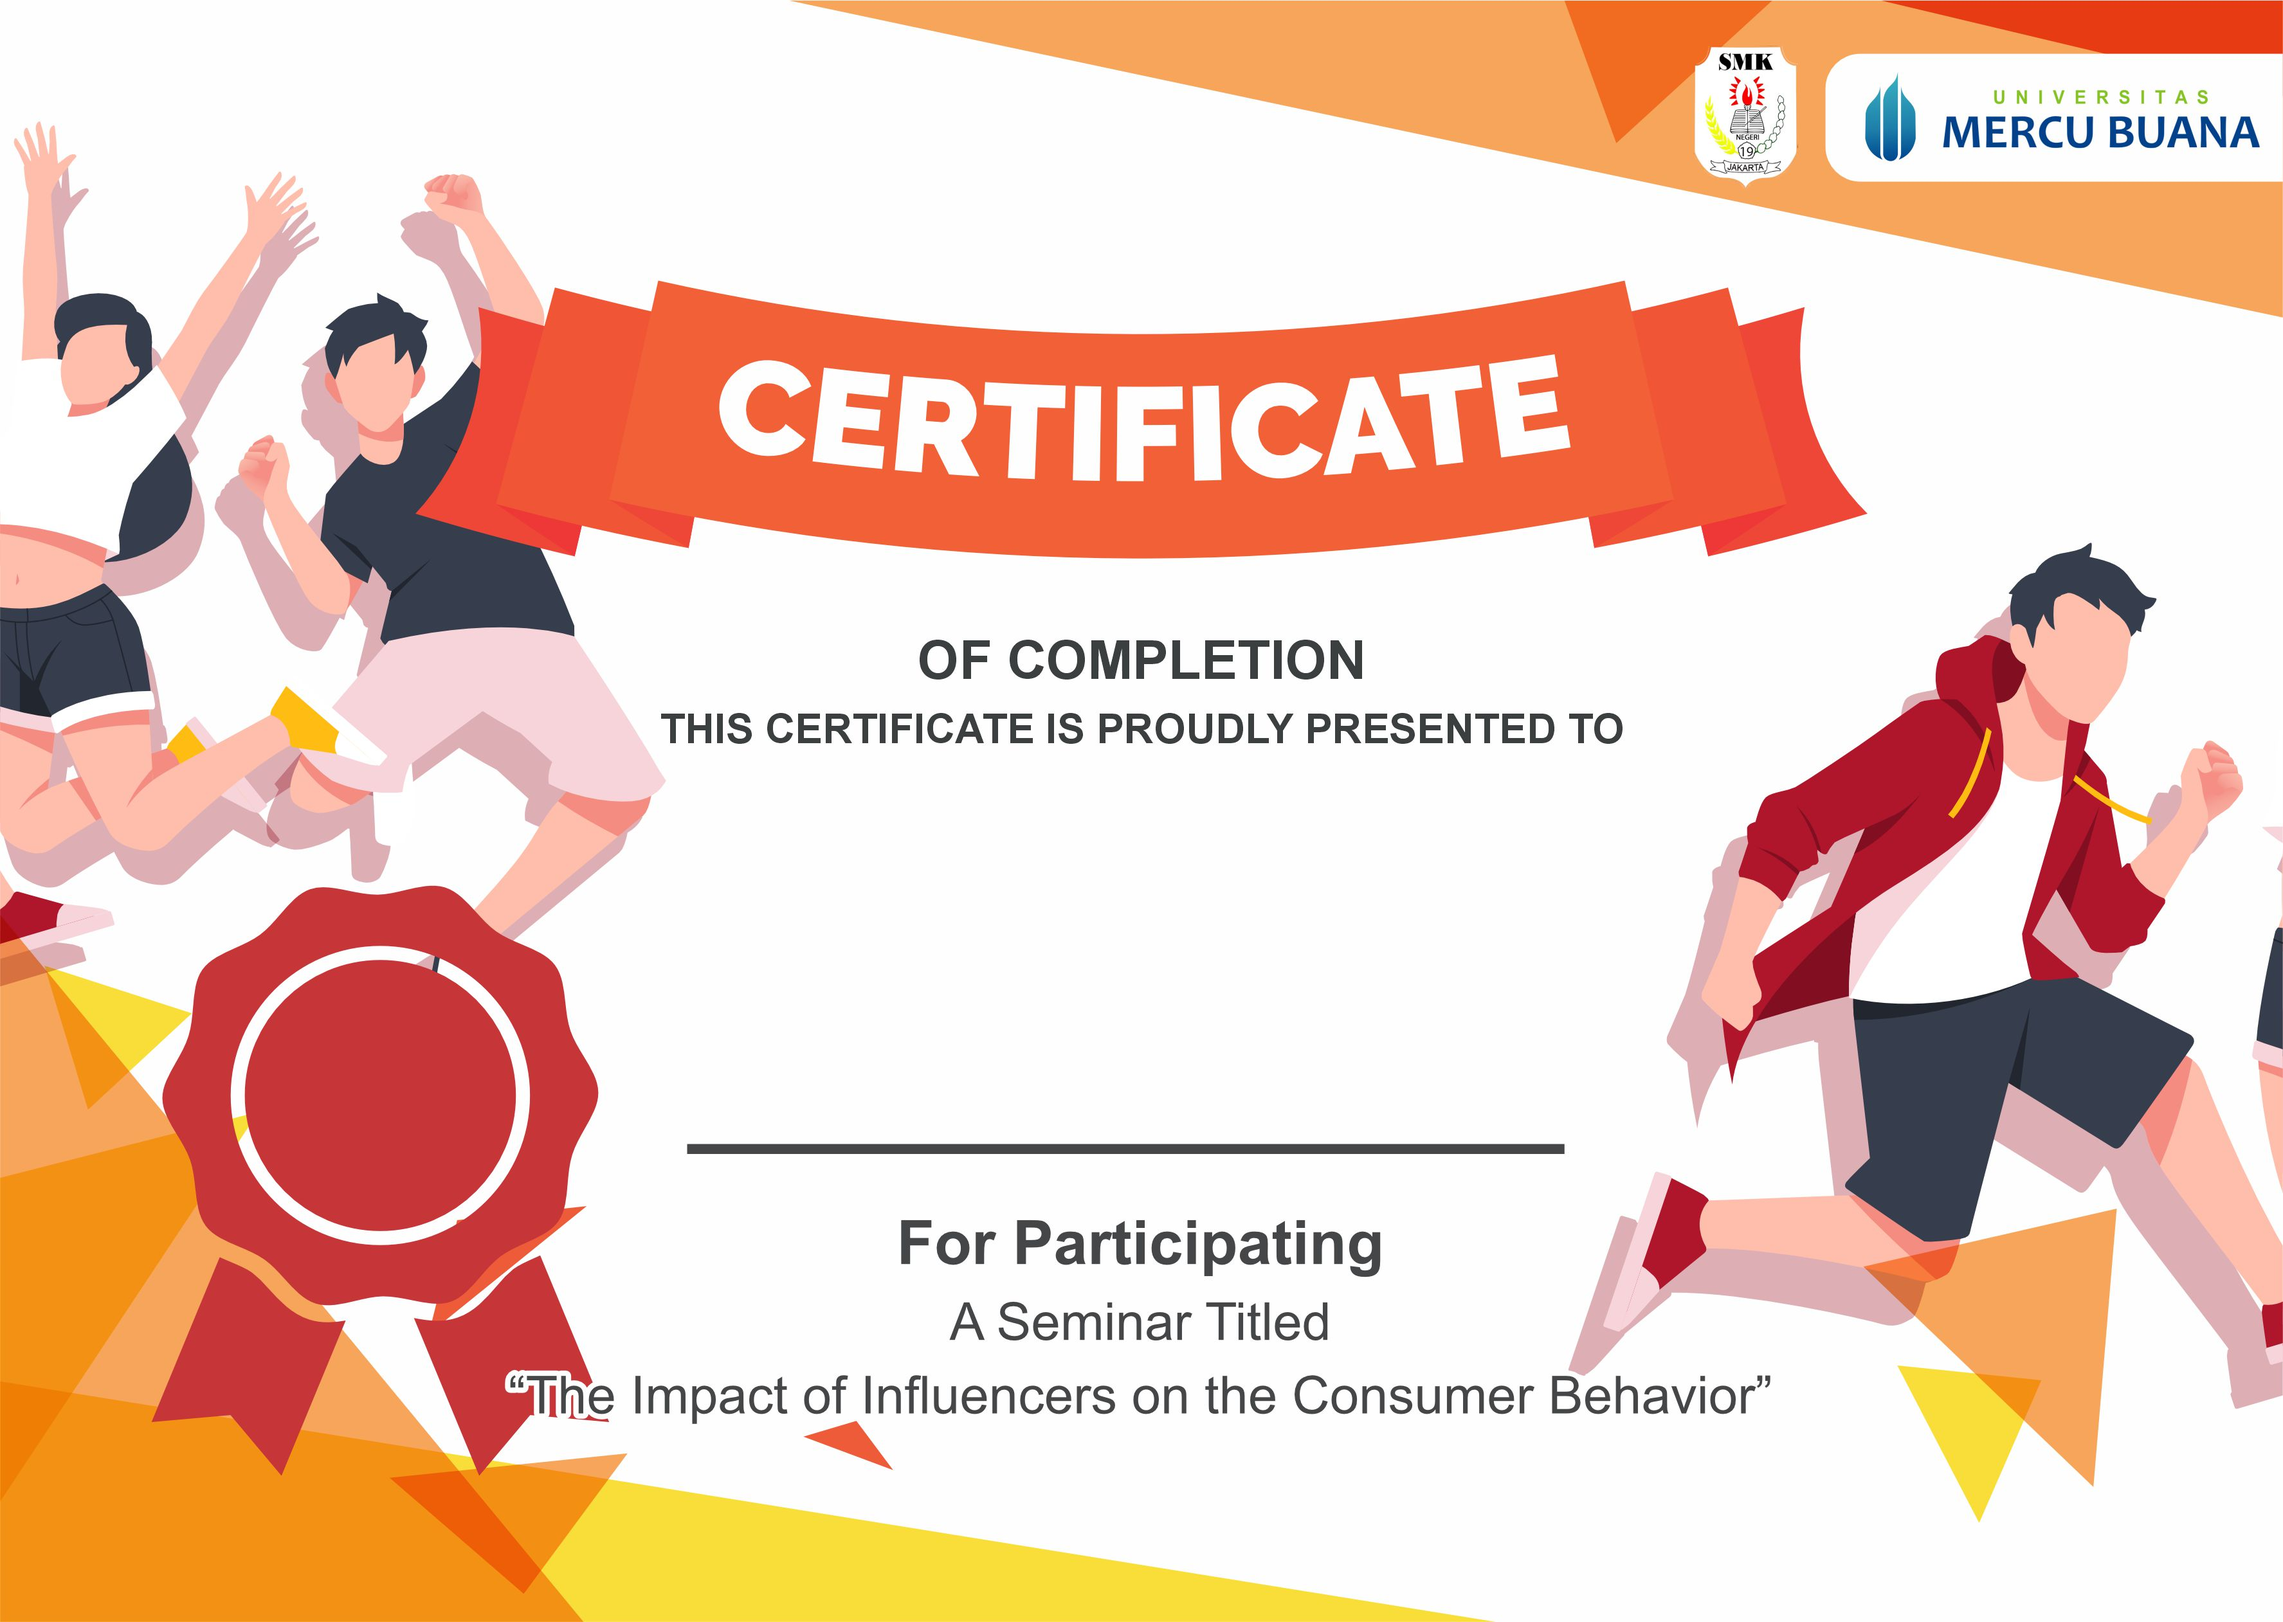
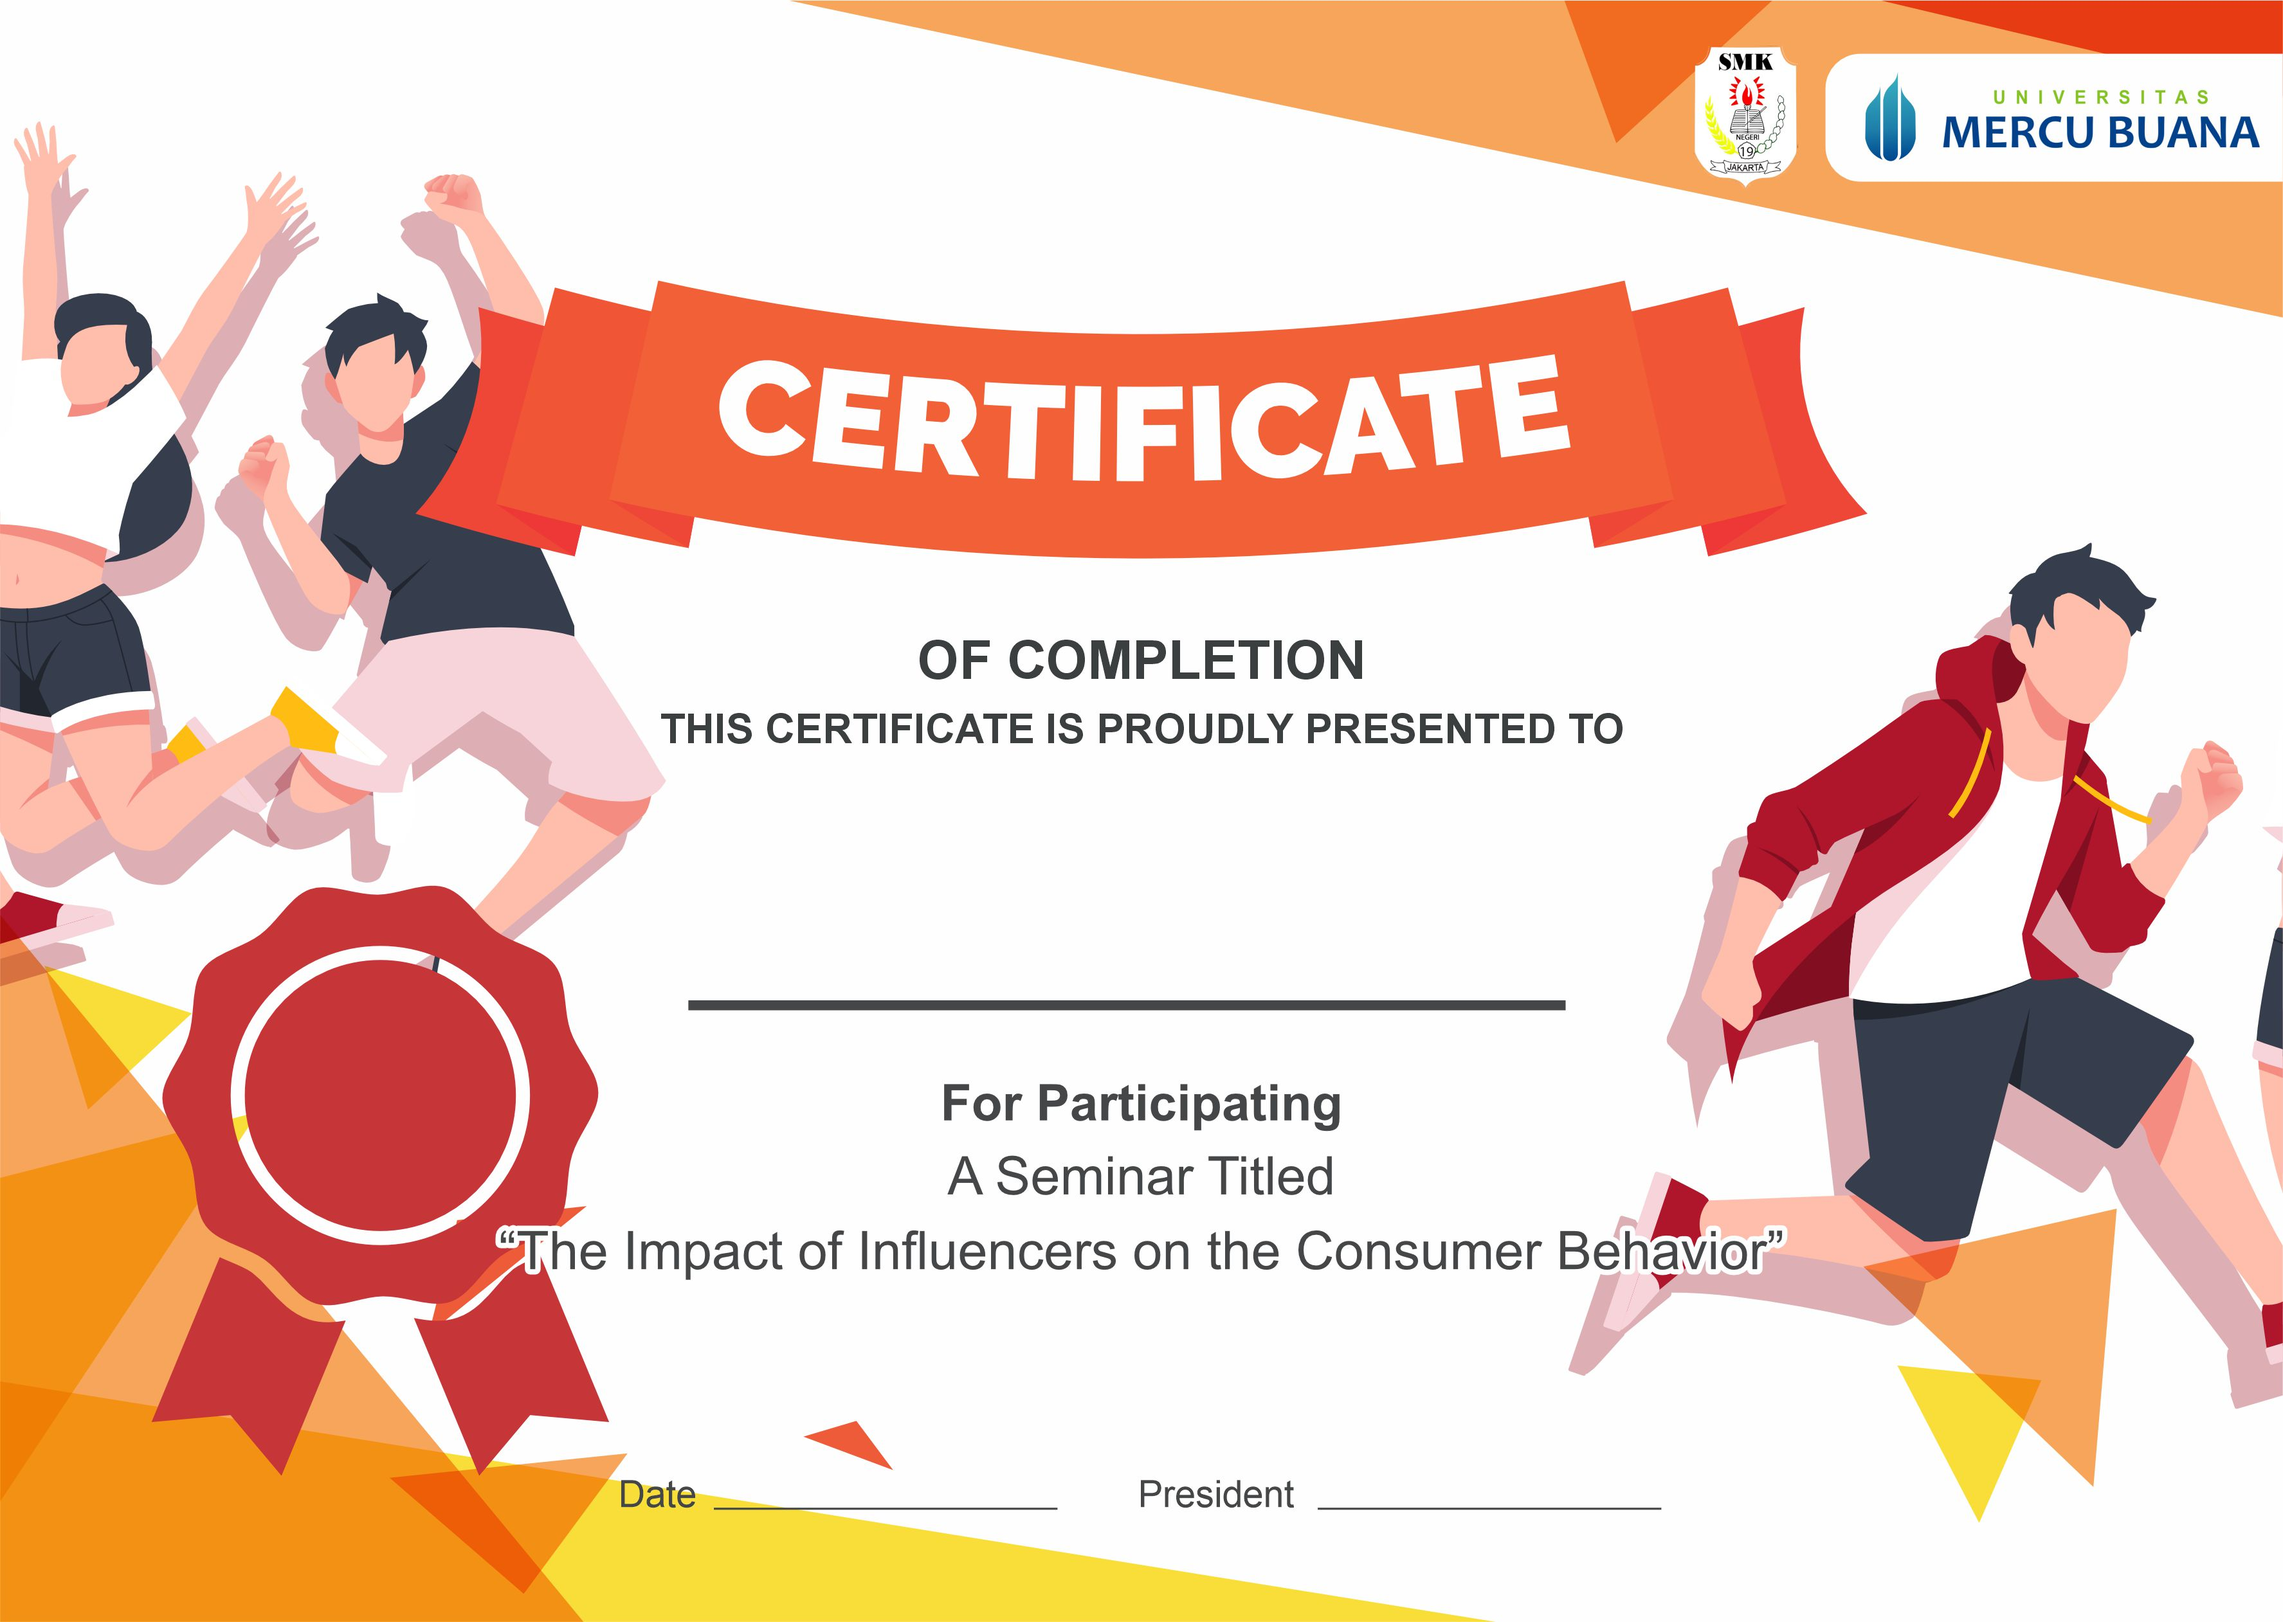
Add files via upload

Changed region(s): [[0.2169, 0.6183, 0.8056, 0.8966], [0.4958, 0.8966, 0.5577, 0.9275], [0.2789, 0.8966, 0.3099, 0.9275]]

diff --git a/index.html b/index.html
@@ -1,0 +1,81 @@
+<!DOCTYPE html>
+<html lang="en">
+<head>
+    <meta charset="UTF-8">
+    <meta name="viewport" content="width=device-width, initial-scale=1.0">
+    <title>Print Sertifikat</title>
+    <link rel="icon" href="hehe.ico" type="image/jpg">
+    <link rel="stylesheet" href="print.css">
+    <link rel="stylesheet" href="marquee.css">
+    <link rel="stylesheet" href="cursor.css">
+    <link rel="stylesheet" href="rightpanel.css" />
+</head>
+<body>
+    <div class="container">
+        <div class="marquee" id="marquee">
+            <p id="marqueeText">UNTUK NGEPRINT SERTIFIKAT TUGAS SISCA CUY
+                <!-- <img src="igr.png" alt="Logo Indogrosir" class="marquee-logo"> -->
+            </p>
+        </div>
+        
+
+        <main class="main">
+            <section class="left-panel">
+                <h2>DROP EXCEL DI SINI</h2>
+                <!-- Bagian Drag & Drop Tetap Ada Di Sini -->
+                <div class="drop-section" id="drop-section">
+                    <input type="file" id="excelInput" accept=".xlsx" style="display: none;">
+                    <p>Drag & Drop Excel Di Sini</p>
+                    <div id="file-list"></div>
+                </div>
+                <!-- Area untuk menampilkan data spreadsheet -->
+                <div class="excel-preview" id="excel-preview" style="display: none;">
+                    <div class="table-container" id="table-container"></div>
+                </div>
+                <div class="button-section">
+                    <button id="merge-btn">Proses</button>
+                    <button id="reset-btn">Masukan Excel Baru</button>
+                </div>
+            </section>
+            <section class="right-panel">
+                <h2>DISPLAY</h2>
+                <div class="qr-display" id="qr-display">
+                    <!-- PDF preview akan ditampilkan di sini -->
+                    <div id="pdf-preview"></div>
+                </div>
+                <div class="button-section">
+                    <button id="download-btn" style="display:none;">Download PDF Hasilnya</button>
+                </div>
+                <p>This engine is exclusively crafted for Sisca Cuy</p>
+            </section>
+
+        </main>
+        
+    </div>
+    <!-- Footer -->
+    <footer>
+        <p>&copy; Sisca Cuy and The Gang</p>
+    </footer>
+
+    <!-- Loading Popup -->
+    <div id="loading-popup" class="loading-popup" style="display: none;">
+        <div class="loading-spinner"></div>
+        <p>Lagi diproses... Mohon tunggu ya mas...</p>
+    </div>
+
+    <!-- Scripts -->
+    <!-- PDF.js Library -->
+    <script src="https://cdnjs.cloudflare.com/ajax/libs/pdf.js/2.16.105/pdf.min.js"></script>
+    <!-- PDF.js Worker -->
+    <script src="https://cdnjs.cloudflare.com/ajax/libs/pdf.js/2.16.105/pdf.worker.min.js"></script>
+    <!-- Initialize PDF.js Worker -->
+    <script>
+        pdfjsLib.GlobalWorkerOptions.workerSrc = 'https://cdnjs.cloudflare.com/ajax/libs/pdf.js/2.16.105/pdf.worker.min.js';
+    </script>
+    <!-- PDF-Lib Library -->
+    <script src="https://cdnjs.cloudflare.com/ajax/libs/xlsx/0.18.5/xlsx.full.min.js"></script>
+    <script src="https://cdn.jsdelivr.net/npm/pdf-lib@1.17.1/dist/pdf-lib.min.js"></script>
+    
+    <script defer src="print.js"></script>
+</body>
+</html>

diff --git a/print.js b/print.js
@@ -260,7 +260,7 @@ document.addEventListener('DOMContentLoaded', function () {
         ctx.textBaseline = 'middle';
         
         // Draw name on the certificate (adjust the Y position based on your template)
-        ctx.fillText(namaPendek.toUpperCase(), canvas.width/2, 1700);
+        ctx.fillText(namaPendek.toUpperCase(), canvas.width/2, 1490);
         
         // Convert to PNG and add to PDF
         const pngImage = await pdfDoc.embedPng(canvas.toDataURL());
